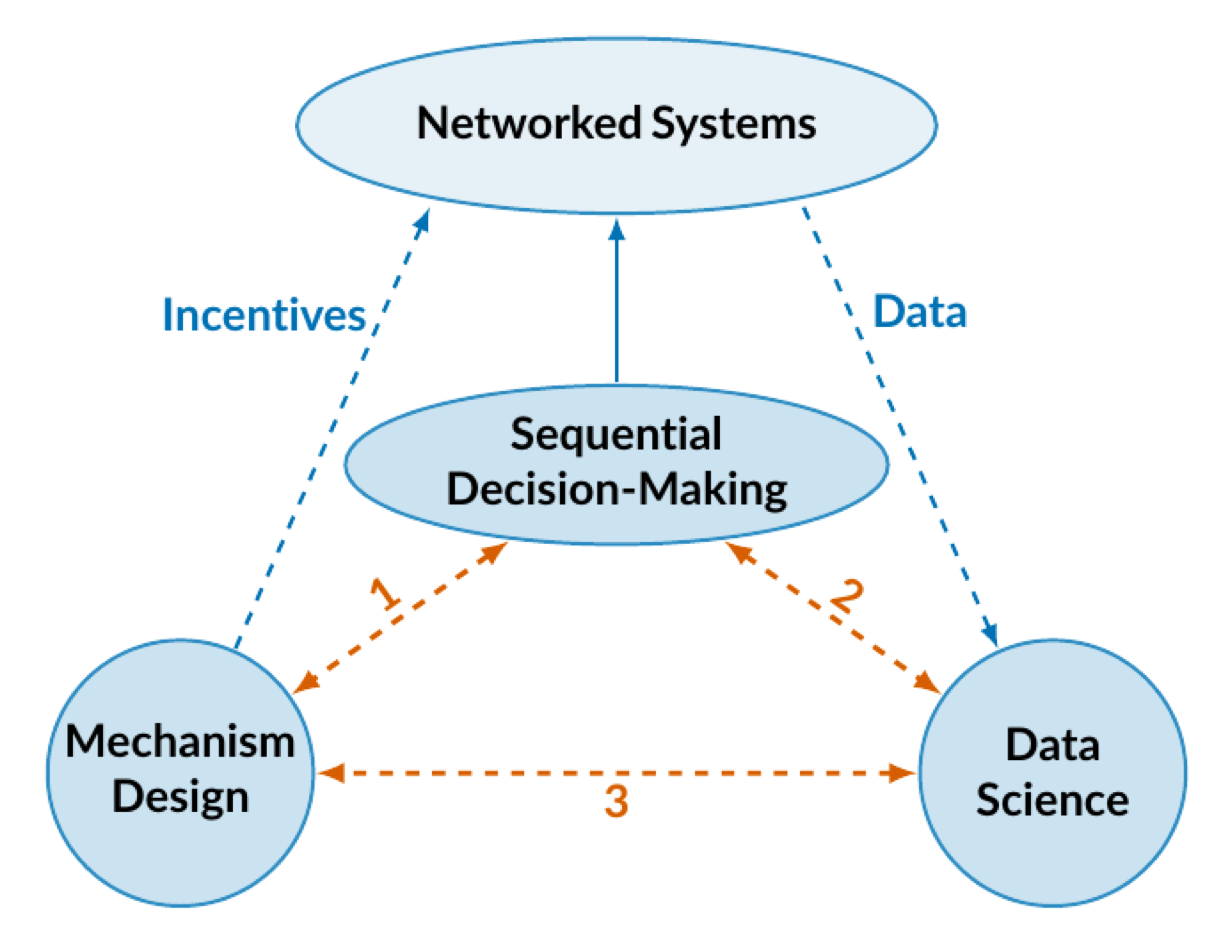
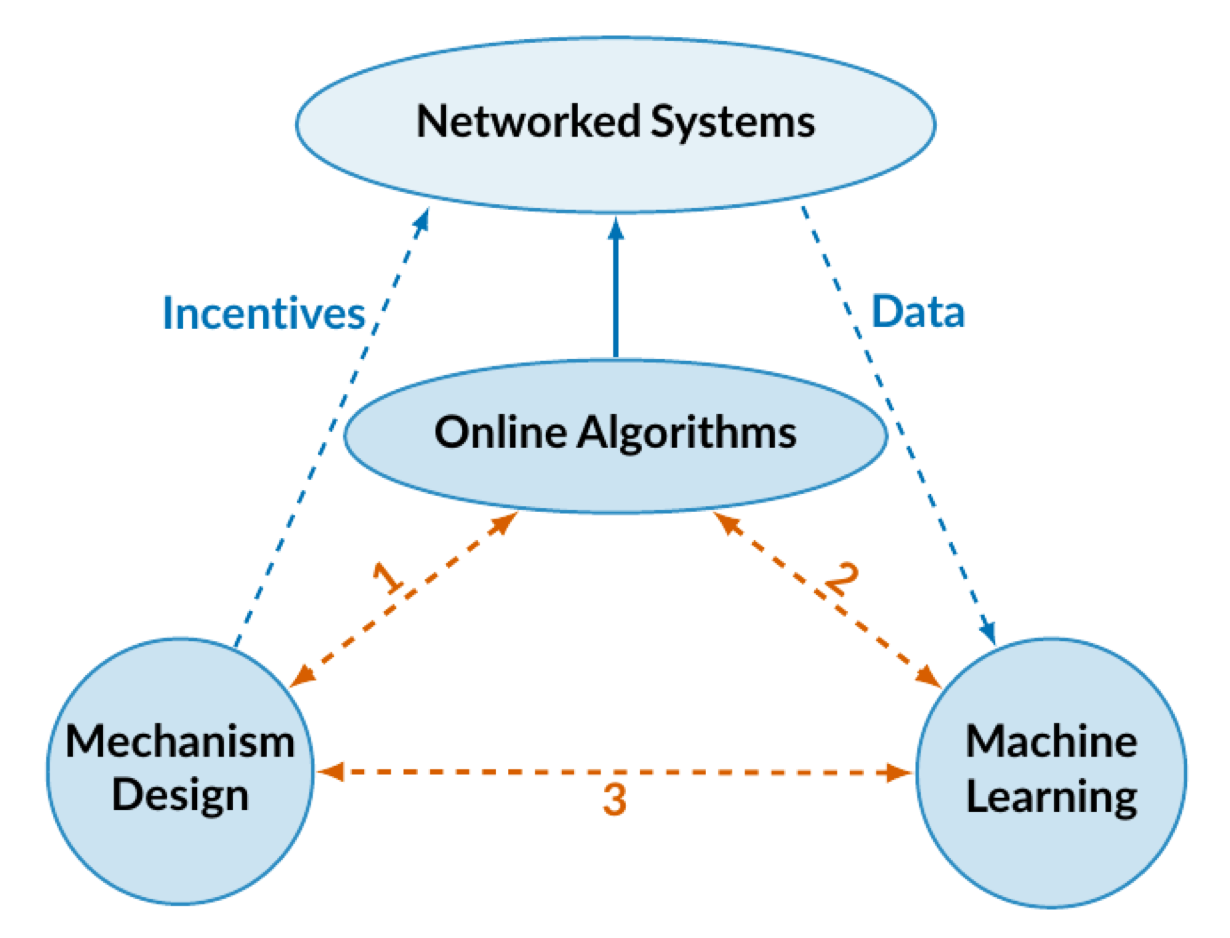
20200213

diff --git a/content/publications.md b/content/publications.md
@@ -29,43 +29,43 @@ title: Publications
 - <span style="color:Gray"> S. Wang, B. Sun, **X. Tan**, and D.H.K. Tsang, "Real-time Interactions between Transmission and Distribution Networks in Power Systems", preprint. </span>
 
 
-> 1. **X. Tan**, A. Leon-Garcia, Y. Wu, and D.H.K. Tsang, “[Online Combinatorial Auctions for Resource Allocation with Supply Costs and Capacity Limits](/documents/OCA-JSAC-2020.pdf)”, IEEE Journal of Selected Areas in Communications, in press. [[Earlier Version]](https://www.sigmetrics.org/mama/abstracts/Tan.pdf) [[Technical Report]](/documents/jsac_sdp_report.pdf)
+> 1. **X. Tan**, A. Leon-Garcia, Y. Wu, and D.H.K. Tsang, “[Online Combinatorial Auctions for Resource Allocation with Supply Costs and Capacity Limits](/documents/OCA-JSAC-2020.pdf)”, `IEEE Journal of Selected Areas in Communications`, in press. [[Earlier Version]](https://www.sigmetrics.org/mama/abstracts/Tan.pdf) [[Technical Report]](/documents/jsac_sdp_report.pdf)
 
-> 1. **X. Tan**, A. Leon-Garcia, Y. Wu, and D.H.K. Tsang, “[Posted-Price Retailing of Transactive Energy: An Optimal Online Mechanism without Prediction](/documents/PPR-JSAC-2020.pdf)”, IEEE Journal of Selected Areas in Communications, vol. 38, no. 1, pp. 5-16, Jan. 2020. [[Technical Report]](/documents/PPR-JSAC-2020.pdf)
-1. B. Sun, **X. Tan**, and D.H.K. Tsang, “[Eliciting Multi-dimensional Flexibility from Electric Vehicles: A Mechanism Design Approach](/documents/MDF_mechanism_TPS.pdf)”, IEEE Transactions on Power Systems, vol. 34, no. 5, pp. 4038–4047, Sept. 2019.
-1. **X. Tan**, G. Qu, B. Sun, N. Li, and D.H.K. Tsang, “[Optimal Scheduling of Battery Charging Stations Serving Electric Vehicles Based on Battery Swapping](/documents/bcs_scheduling_ev_tsg.pdf)”, IEEE Transactions on Smart Grid, vol. 10, no. 2, pp. 1372-1384, March 2019.
-1. B. Sun, **X. Tan**, and D.H.K. Tsang, “[Optimal Charging Operation of Battery Swapping and Charging Stations with QoS Guarantee](/documents/operation_BSCS_QoS.pdf)”, IEEE Transactions on Smart Grid, vol. 9, no. 5, pp. 4689-4701, Sept. 2018.
-1. Y. Wu, L. Qian, H. Mao, X. Yang, H. Zhou, **X. Tan**, and D.H.K. Tsang, “[Secrecy-Driven Resource Management for Vehicular Computation-Ofﬂoading Networks](/documents/yuan_SDRM_net.pdf)”, IEEE Network, vol. 32, no. 3, pp. 84-91, June 2018.
-1. S. Agheb, **X. Tan**, B. Sun, and D.H.K. Tsang, “[Contract Design for Aggregating, Trading, and Distributing Reserves in Demand-side Frequency Regulation](/documents/sareh_contract_tii.pdf)”, IEEE Transactions on Industrial Informatics, vol. 14, no. 6, pp. 2539-2549, June 2018.
-1. **X. Tan**, B. Sun, Y. Wu and D.H.K. Tsang, “[Asymptotic Performance Evaluation of Battery Swapping and Charging Station for Electric Vehicles](/documents/bscs_queuing_pe.pdf)”, Performance Evaluation (Elsevier), vol. 119, pp. 43-57, March 2018.
-1. W. Li, **X. Tan**, B. Sun, and D.H.K. Tsang, “[Optimal Power Dispatch of a Centralized Electric Vehicle Battery Charging Station with Renewables](/documents/jason_bcs_iet.pdf)”, IET Communications, vol. 12, no. 5, pp. 579-585, March 2018.
+> 1. **X. Tan**, A. Leon-Garcia, Y. Wu, and D.H.K. Tsang, “[Posted-Price Retailing of Transactive Energy: An Optimal Online Mechanism without Prediction](/documents/PPR-JSAC-2020.pdf)”, `IEEE Journal of Selected Areas in Communications`, vol. 38, no. 1, pp. 5-16, Jan. 2020. [[Technical Report]](/documents/PPR-JSAC-2020.pdf)
+1. B. Sun, **X. Tan**, and D.H.K. Tsang, “[Eliciting Multi-dimensional Flexibility from Electric Vehicles: A Mechanism Design Approach](/documents/MDF_mechanism_TPS.pdf)”, `IEEE Transactions on Power Systems`, vol. 34, no. 5, pp. 4038–4047, Sept. 2019.
+1. **X. Tan**, G. Qu, B. Sun, N. Li, and D.H.K. Tsang, “[Optimal Scheduling of Battery Charging Stations Serving Electric Vehicles Based on Battery Swapping](/documents/bcs_scheduling_ev_tsg.pdf)”, `IEEE Transactions on Smart Grid`, vol. 10, no. 2, pp. 1372-1384, March 2019.
+1. B. Sun, **X. Tan**, and D.H.K. Tsang, “[Optimal Charging Operation of Battery Swapping and Charging Stations with QoS Guarantee](/documents/operation_BSCS_QoS.pdf)”, `IEEE Transactions on Smart Grid`, vol. 9, no. 5, pp. 4689-4701, Sept. 2018.
+1. Y. Wu, L. Qian, H. Mao, X. Yang, H. Zhou, **X. Tan**, and D.H.K. Tsang, “[Secrecy-Driven Resource Management for Vehicular Computation-Ofﬂoading Networks](/documents/yuan_SDRM_net.pdf)”, `IEEE Network`, vol. 32, no. 3, pp. 84-91, June 2018.
+1. S. Agheb, **X. Tan**, B. Sun, and D.H.K. Tsang, “[Contract Design for Aggregating, Trading, and Distributing Reserves in Demand-side Frequency Regulation](/documents/sareh_contract_tii.pdf)”, `IEEE Transactions on Industrial Informatics`, vol. 14, no. 6, pp. 2539-2549, June 2018.
+1. **X. Tan**, B. Sun, Y. Wu and D.H.K. Tsang, “[Asymptotic Performance Evaluation of Battery Swapping and Charging Station for Electric Vehicles](/documents/bscs_queuing_pe.pdf)”, `Performance Evaluation (Elsevier)`, vol. 119, pp. 43-57, March 2018.
+1. W. Li, **X. Tan**, B. Sun, and D.H.K. Tsang, “[Optimal Power Dispatch of a Centralized Electric Vehicle Battery Charging Station with Renewables](/documents/jason_bcs_iet.pdf)”, `IET Communications`, vol. 12, no. 5, pp. 579-585, March 2018.
 1. T. Liu, **X. Tan**, B. Sun, Y. Wu, and D.H.K. Tsang, “[Energy Management of Cooperative Microgrids: A Distributed Optimization Approach](/documents/distributed_MG_IJEPES.pdf)”, International Journal of Electrical Power and Energy Systems, vol. 96, pp. 335-346, March 2018.
 1. B. Sun, Zhe Huang, **X. Tan**, and D.H.K. Tsang, “[Optimal Scheduling for Electric Vehicle Charging with Discrete Charging Levels in Distribution Grid](/documents/ev_discrete_charging_tsg.pdf)”, IEEE Transactions on Smart Grid, vol. 9, no. 2, pp. 624-634, March 2018.
-1. **X. Tan**, Y. Wu and D.H.K. Tsang, “[A Stochastic Shortest Path Framework for Quantifying the Value and Lifetime of Battery Energy Storage under Dynamic Pricing](/documents/ssp_bess_tsg.pdf)”, IEEE Transactions on Smart Grid, vol. 8, no. 2, pp. 769-778, March 2017.
-1. **X. Tan**, Y. Wu and D.H.K. Tsang, “[Pareto Optimal Operation of Distributed Battery Energy Storage Systems for Energy Arbitrage under Dynamic Pricing](/documents/pareto_bess_tpds.pdf)”, IEEE Transactions on Parallel and Distributed Systems, Vol. 27, No. 7, pp. 2103-2115, July 2016. 
-1. Y. Wu, **X. Tan**, L. Qian, D.H.K. Tsang, W. Song, and L. Yu, “[Optimal Pricing and Energy Scheduling for Hybrid Energy Trading Market in Future Smart Grid](/documents/pricing_hybrid_market_tii.pdf)”, IEEE Transactions on Industrial Informatics, vol. 11, no. 6, pp. 1585-1596, Dec. 2015.
-1. S. Niafar, **X. Tan**, and D.H.K. Tsang et al, “[Optimal Downlink Scheduling for Heterogeneous Traffic in LET-A Based on MDP and Chance-Constrained Approaches](/documents/downlink_scheduling_monet.pdf)”, ACM Springer Mobile Networks and Applications (MONET) Journal, 2015.
+1. **X. Tan**, Y. Wu and D.H.K. Tsang, “[A Stochastic Shortest Path Framework for Quantifying the Value and Lifetime of Battery Energy Storage under Dynamic Pricing](/documents/ssp_bess_tsg.pdf)”, `IEEE Transactions on Smart Grid`, vol. 8, no. 2, pp. 769-778, March 2017.
+1. **X. Tan**, Y. Wu and D.H.K. Tsang, “[Pareto Optimal Operation of Distributed Battery Energy Storage Systems for Energy Arbitrage under Dynamic Pricing](/documents/pareto_bess_tpds.pdf)”, `IEEE Transactions on Parallel and Distributed Systems`, Vol. 27, No. 7, pp. 2103-2115, July 2016. 
+1. Y. Wu, **X. Tan**, L. Qian, D.H.K. Tsang, W. Song, and L. Yu, “[Optimal Pricing and Energy Scheduling for Hybrid Energy Trading Market in Future Smart Grid](/documents/pricing_hybrid_market_tii.pdf)”, `IEEE Transactions on Industrial Informatics`, vol. 11, no. 6, pp. 1585-1596, Dec. 2015.
+1. S. Niafar, **X. Tan**, and D.H.K. Tsang et al, “[Optimal Downlink Scheduling for Heterogeneous Traffic in LET-A Based on MDP and Chance-Constrained Approaches](/documents/downlink_scheduling_monet.pdf)”, `ACM Springer Mobile Networks and Applications (MONET) Journal`, 2015.
 
 
 --- 
 ## Conference Papers
-> 1. **X. Tan**, A. Leon-Garcia and D.H.K. Tsang, “[Optimal Posted Prices for Online Resource Allocation with Supply Costs](https://www.sigmetrics.org/mama/abstracts/Tan.pdf)”, in Proceedings of ACM Sigmetrics Workshop on MAMA, 2019.
+> 1. **X. Tan**, A. Leon-Garcia and D.H.K. Tsang, “[Optimal Posted Prices for Online Resource Allocation with Supply Costs](https://www.sigmetrics.org/mama/abstracts/Tan.pdf)”, `in Proceedings of ACM Sigmetrics Workshop on MAMA`, 2019.
 
-> 1. **X. Tan**, A. Leon-Garcia, B. Sun, and D.H.K. Tsang, “[A Novel Online Mechanism for Demand-Side Flexibility Management under Arbitrary Arrivals](/documents/e_energy_19.pdf)”, [Extended Abstract], in Proceedings of ACM e-Energy, 2019.
-1. L. Liu, B. Sun, **X. Tan**, Y.S. Xiao, D.H.K. Tsang, “[Energy-efficient Resource Allocation and Channel Assignment for NOMA-based Mobile Edge Computing](/documents/noma_mec_wcnc19.pdf)”, in Proceedings of IEEE Wireless Communications and Networking Conference (WCNC), April. 2019, Marrakech, Morocco.
-1. **X. Tan** and A. Leon-Garcia, “[Autonomous Mobility and Energy Service Management in Future Smart Cities: An Overview](https://arxiv.org/abs/1810.04576)”, in Proceedings of IEEE UV 2018, MIT, Boston, MA, USA.
-1. L. Ni, B. Sun, **X. Tan** and D.H.K. Tsang, “[Online Price-based Vehicle-to-Station Recommendations for EV Battery Swapping](/documents/online_v2s_sgc.pdf)”, in Proceedings of IEEE SmartGridComm, Oct. 2018, Aalborg, Denmark.
-1. A. Zhang, B. Sun, T. Liu, **X. Tan**, S. Wang and D.H.K. Tsang, “[Joint Voltage and Frequency Regulation by EV Charging Scheduling in the Distribution Network](/documents/JVFR_EV_ISGT.pdf)”, in Proceedings of ISGT, 2018.
+> 1. **X. Tan**, A. Leon-Garcia, B. Sun, and D.H.K. Tsang, “[A Novel Online Mechanism for Demand-Side Flexibility Management under Arbitrary Arrivals](/documents/e_energy_19.pdf)”, [Extended Abstract], `in Proceedings of ACM e-Energy`, 2019.
+1. L. Liu, B. Sun, **X. Tan**, Y.S. Xiao, D.H.K. Tsang, “[Energy-efficient Resource Allocation and Channel Assignment for NOMA-based Mobile Edge Computing](/documents/noma_mec_wcnc19.pdf)”, `in Proceedings of IEEE Wireless Communications and Networking Conference (WCNC)`, April. 2019, Marrakech, Morocco.
+1. **X. Tan** and A. Leon-Garcia, “[Autonomous Mobility and Energy Service Management in Future Smart Cities: An Overview](https://arxiv.org/abs/1810.04576)”, `in Proceedings of IEEE UV 2018`, MIT, Boston, MA, USA.
+1. L. Ni, B. Sun, **X. Tan** and D.H.K. Tsang, “[Online Price-based Vehicle-to-Station Recommendations for EV Battery Swapping](/documents/online_v2s_sgc.pdf)”, `in Proceedings of IEEE SmartGridComm`, Oct. 2018, Aalborg, Denmark.
+1. A. Zhang, B. Sun, T. Liu, **X. Tan**, S. Wang and D.H.K. Tsang, “[Joint Voltage and Frequency Regulation by EV Charging Scheduling in the Distribution Network](/documents/JVFR_EV_ISGT.pdf)”, `in Proceedings of ISGT`, 2018.
 1. S. Wang, B. Sun, T. Liu, **X. Tan**, and D.H.K. Tsang, “[Real-time Market-based Coordination Mechanism for Transmission and Distribution Networks](/documents/realtime_coordination_sgc.pdf)”, in Proceedings of IEEE SmartGridComm, Oct. 2017. 
-1. T. Liu, B. Sun, **X. Tan**, and D.H.K. Tsang, “[Market for Multi-Dimensional Flexibility with Parametric Demand Response Bidding](/documents/market_mdf_naps.pdf)”, in Proceedings of 49th North American Power Symposium, Sept. 2017.
-1. S. Agheb, **X. Tan**, B. Sun, and D.H.K. Tsang, “[Robust Provisioning of Demand-Side Flexibility Under Electricity Price Uncertainty](/documents/robust_dsf_icit.pdf)”, in Proceedings of IEEE ICIT, March 2016.
-1. T. Liu, **X. Tan**, B. Sun, Y. Wu, X. Guan, and D.H.K. Tsang, “[Energy Management of Cooperative Microgrids with P2P Energy Sharing in Distribution Networks](/documents/microgrid_p2p_sgc.pdf)”, in Proceedings of IEEE SmartGridComm, Nov. 2015.
-1. W. Li, **X. Tan**, and D.H.K. Tsang, “[Smart Home Energy Management Systems Based on Non-Intrusive Load Monitoring](/documents/smart_home_nilm_sgc.pdf)”, in Proceedings of IEEE SmartGridComm 2015.
-1. S. Agheb, **X. Tan**, and D.H.K. Tsang, “[Model Predictive Control of Integrated Room Automation Considering Occupants Preference](/documents/mpc_room_sgc.pdf)”, in Proceedings of IEEE SmartGridComm 2015.
-1. Y. Wu, **X. Tan**, L. Qian and D.H.K. Tsang, “[Optimal Management of Local Energy Trading in Future Smart Microgrid via Pricing](/documents/trading_pricing_sdc.pdf)”, in Proceedings of IEEE INFOCOM Workshop-Smart Data Pricing, May. 2015.
-1. **X. Tan**, B. Sun and D.H.K. Tsang, “[Queueing Network Models for Electric Vehicle Charging Station with Battery Swapping](/documents/queueing_bscs_sgc.pdf)”, in Proceedings of IEEE SmartGridComm 2014.
-1. **X. Tan**, Y. Wu and D.H.K. Tsang, “[Optimal Energy Trading with Battery Energy Storage under Dynamic Pricing](/documents/trading_bess_sgc.pdf)”, in Proceedings of IEEE SmartGridComm 2014.
-1. B. Sun, **X. Tan** and D.H.K. Tsang, “[Optimal Charging Operation of Battery Swapping Stations with QoS Guarantee](/documents/operation_bscs_sgc.pdf)”, in Proceedings of IEEE SmartGridComm 2014.
-1. Y. Wu, X. Sun, **X. Tan**, L. Meng, L. Yu, W. Song and D.H.K. Tsang, “[Cooperative Distributed Energy Generation and Energy Trading for Future Smart Grid](/documents/coop_trading_ccc.pdf)”, in Proceedings of the 33rd Chinese Control Conference (CCC), Nanjing, China, Jul. 2014.
-1. S. Niafar, **X. Tan** and D.H.K. Tsang, “[The Optimal User Scheduling for LTE-A Downlink with Heterogeneous Traffic Types](/documents/downlink_sheduling_qhine.pdf)”, [invited paper], in Proceedings of 10th International Conference on Heterogeneous Networking for Quality, Reliability, Security and Robustness (Qshine 2014), Rhodes, Greece, 2014.
-1. **X. Tan**, Y. Wu and D.H.K. Tsang, “[Economic Analysis of Lifetime-Constrained Battery Storage under Dynamic Pricing](/documents/lifetime_analysis_bess_sgc.pdf)”, in Proceedings of IEEE SmartGridComm 2013.
+1. T. Liu, B. Sun, **X. Tan**, and D.H.K. Tsang, “[Market for Multi-Dimensional Flexibility with Parametric Demand Response Bidding](/documents/market_mdf_naps.pdf)”, `in Proceedings of 49th North American Power Symposium`, Sept. 2017.
+1. S. Agheb, **X. Tan**, B. Sun, and D.H.K. Tsang, “[Robust Provisioning of Demand-Side Flexibility Under Electricity Price Uncertainty](/documents/robust_dsf_icit.pdf)”, `in Proceedings of IEEE ICIT`, March 2016.
+1. T. Liu, **X. Tan**, B. Sun, Y. Wu, X. Guan, and D.H.K. Tsang, “[Energy Management of Cooperative Microgrids with P2P Energy Sharing in Distribution Networks](/documents/microgrid_p2p_sgc.pdf)”, `in Proceedings of IEEE SmartGridComm 2015`.
+1. W. Li, **X. Tan**, and D.H.K. Tsang, “[Smart Home Energy Management Systems Based on Non-Intrusive Load Monitoring](/documents/smart_home_nilm_sgc.pdf)”, `in Proceedings of IEEE SmartGridComm 2015`.
+1. S. Agheb, **X. Tan**, and D.H.K. Tsang, “[Model Predictive Control of Integrated Room Automation Considering Occupants Preference](/documents/mpc_room_sgc.pdf)”, `in Proceedings of IEEE SmartGridComm 2015`.
+1. Y. Wu, **X. Tan**, L. Qian and D.H.K. Tsang, “[Optimal Management of Local Energy Trading in Future Smart Microgrid via Pricing](/documents/trading_pricing_sdc.pdf)”, `in Proceedings of IEEE INFOCOM Workshop-Smart Data Pricing`, May. 2015.
+1. **X. Tan**, B. Sun and D.H.K. Tsang, “[Queueing Network Models for Electric Vehicle Charging Station with Battery Swapping](/documents/queueing_bscs_sgc.pdf)”, `in Proceedings of IEEE SmartGridComm 2014`.
+1. **X. Tan**, Y. Wu and D.H.K. Tsang, “[Optimal Energy Trading with Battery Energy Storage under Dynamic Pricing](/documents/trading_bess_sgc.pdf)”, `in Proceedings of IEEE SmartGridComm 2014`.
+1. B. Sun, **X. Tan** and D.H.K. Tsang, “[Optimal Charging Operation of Battery Swapping Stations with QoS Guarantee](/documents/operation_bscs_sgc.pdf)”, `in Proceedings of IEEE SmartGridComm 2014`.
+1. Y. Wu, X. Sun, **X. Tan**, L. Meng, L. Yu, W. Song and D.H.K. Tsang, “[Cooperative Distributed Energy Generation and Energy Trading for Future Smart Grid](/documents/coop_trading_ccc.pdf)”, `in Proceedings of the 33rd Chinese Control Conference (CCC)`, Nanjing, China, Jul. 2014.
+1. S. Niafar, **X. Tan** and D.H.K. Tsang, “[The Optimal User Scheduling for LTE-A Downlink with Heterogeneous Traffic Types](/documents/downlink_sheduling_qhine.pdf)”, [invited paper], `in Proceedings of 10th International Conference on Heterogeneous Networking for Quality, Reliability, Security and Robustness (Qshine 2014)`, Rhodes, Greece, 2014.
+1. **X. Tan**, Y. Wu and D.H.K. Tsang, “[Economic Analysis of Lifetime-Constrained Battery Storage under Dynamic Pricing](/documents/lifetime_analysis_bess_sgc.pdf)”, `in Proceedings of IEEE SmartGridComm 2013`.

diff --git a/content/research.md b/content/research.md
@@ -6,10 +6,10 @@ title: Research
 <img src="/img/overview.png" style="max-width:25%; min-width:350px; float: right" alt="Xiaoqi Tan"/>
 
 
-My research centers on addressing the challenges emerging from the design and operation of real-world networked systems, e.g.,  cloud computing, communication networks, and energy systems.  The key research question that drives my research is as follows: 
+My research centers on addressing the challenges emerging from the design and operation of real-world networked systems arise from cloud computing, communication networks, and energy systems.  The key research question that drives my research is as follows: 
 
 <span style="color:darkblue"> 
-How to make better decisions in managing networked systems so that a desired objective can be achieved despite the presence of  **strategic behaviors**  and  **information uncertainty**?
+How to perform better **online decision-making** in managing networked systems in the presence of  **strategic behaviors**  and  **information uncertainty**?
 </span>
 
 To answer the above two questions, I study the interplay between incentives, algorithms, and learning.  I believe solutions to the above problem can help us gain insights into how to tackle many societal challenges that include  energy sustainability, network security, traffic congestion, and climate change.
